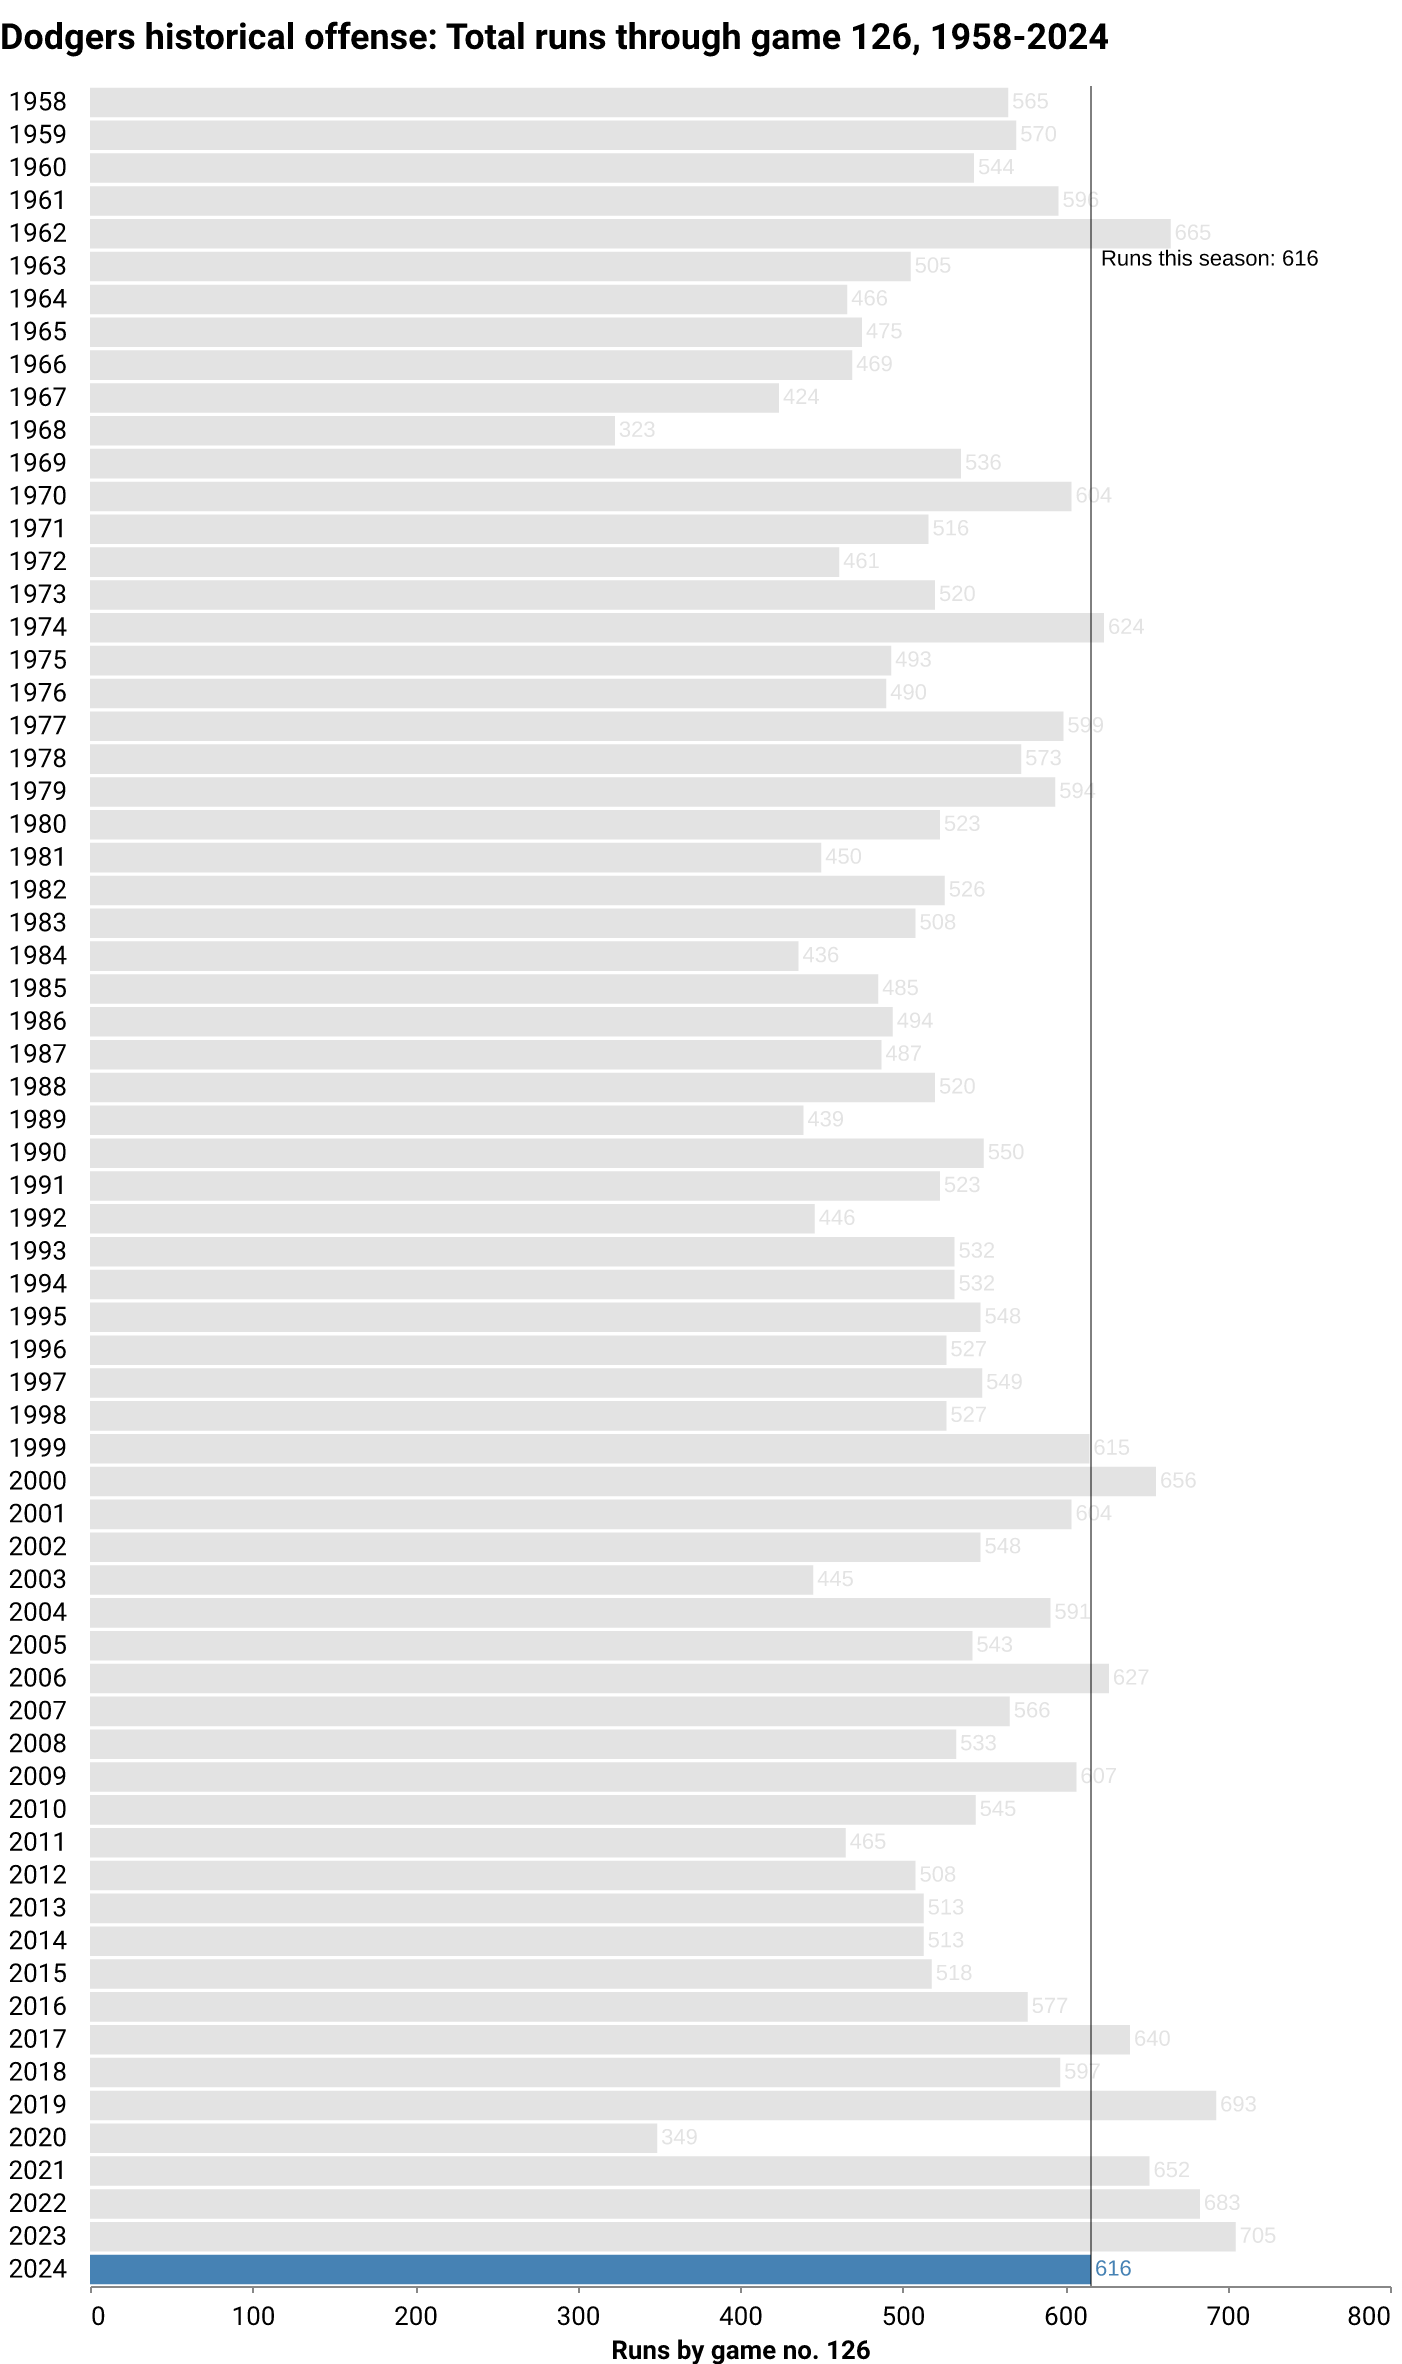
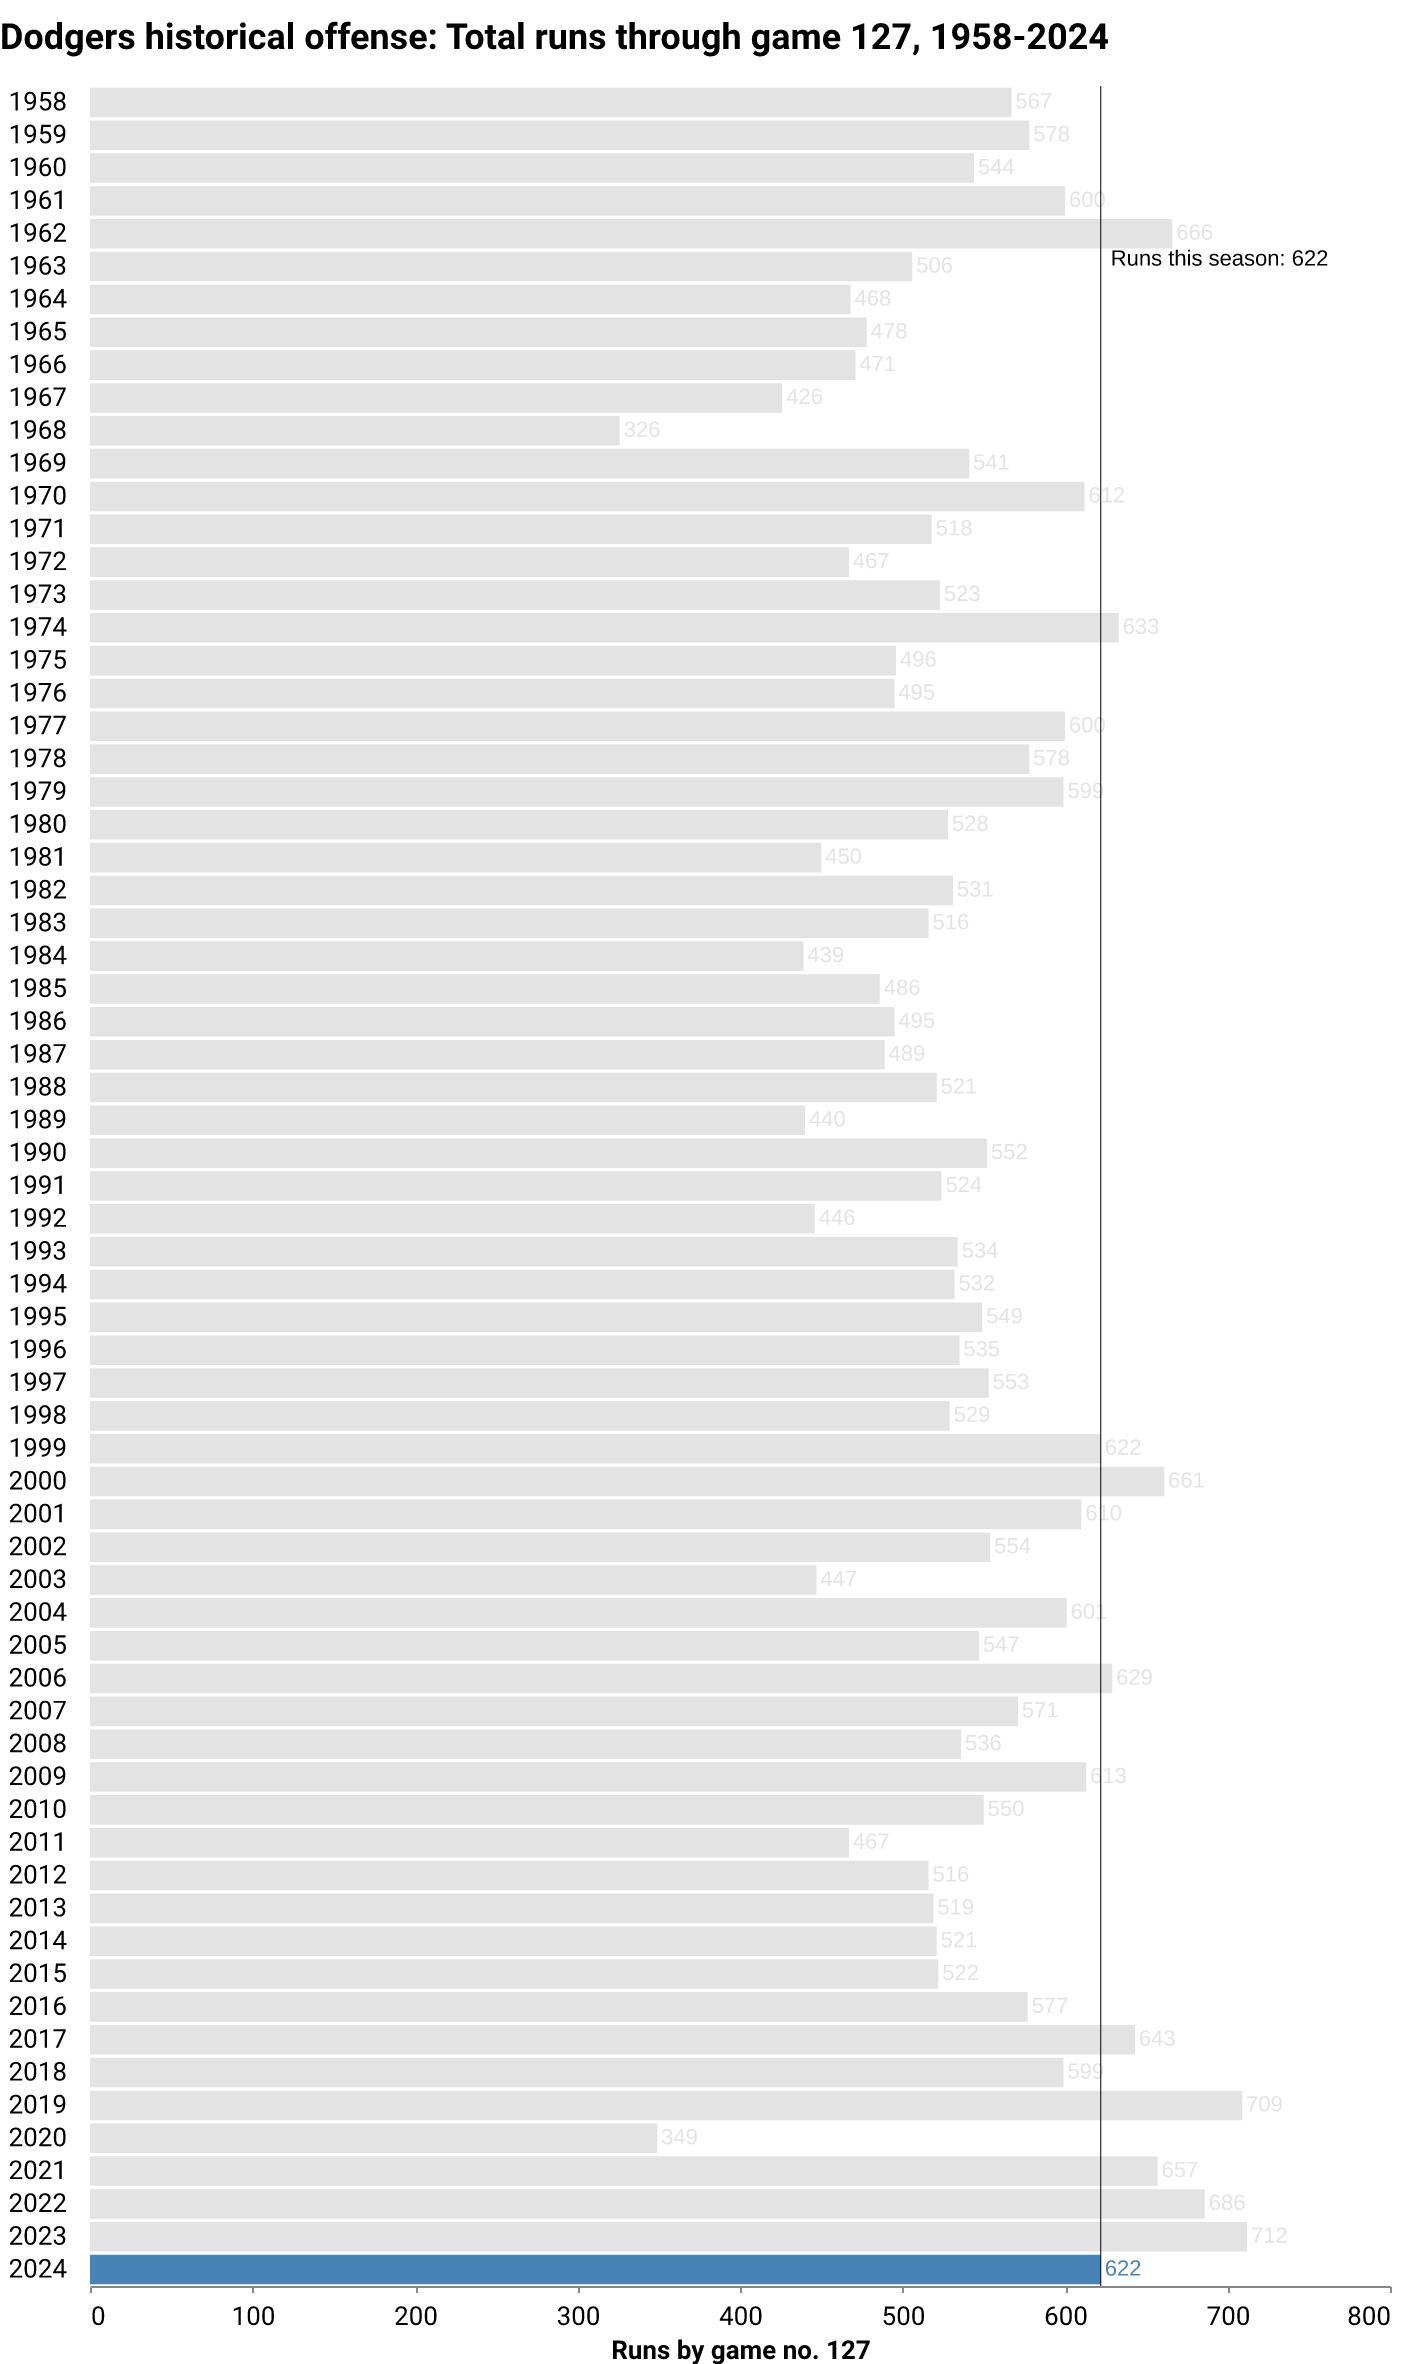
deploy: b6ef3c366af609b19c38bac9369912ef0b6fee00

diff --git a/index.html b/index.html
@@ -184,7 +184,7 @@
 <p class="subhead">
     
     
-    <span class="highlight">LOS ANGELES</span> <span class="updated">(August 21)</span> — After <span class="highlight">126</span> games this season, the Dodgers are in <span class="highlight">1st</span> place in the National League West division. The team has compiled a <span class="highlight">74-52</span> record, winning <span class="highlight">59%</span> of its games so far. The last game was a <span class="highlight">3-0</span> home <span class="highlight">win</span> against the Seattle Mariners in front of <span class="highlight">51,348</span> fans. They've won <span class="highlight">7 of the last 10</span>.
+    <span class="highlight">LOS ANGELES</span> <span class="updated">(August 21)</span> — After <span class="highlight">127</span> games this season, the Dodgers are in <span class="highlight">1st</span> place in the National League West division. The team has compiled a <span class="highlight">75-52</span> record, winning <span class="highlight">59%</span> of its games so far. The last game was a <span class="highlight">6-3</span> home <span class="highlight">win</span> against the Seattle Mariners in front of <span class="highlight">48,395</span> fans. They've won <span class="highlight">7 of the last 10</span>.
 </p>
 </div>
 
@@ -206,10 +206,10 @@
             Wins
           </div>
           <div class="card-body">
-            <p class="card-text">74</p>
+            <p class="card-text">75</p>
           </div>
           <div class="card-footer text-muted">
-        This point last season: 78
+        This point last season: 79
           </div>
         </div>
       </div>
@@ -238,10 +238,10 @@
             Record
           </div>
           <div class="card-body">
-            <p class="card-text">74-52</p>
+            <p class="card-text">75-52</p>
           </div>
           <div class="card-footer text-muted">
-        This point last season: 78-48
+        This point last season: 79-48
           </div>
         </div>
       </div>
@@ -286,10 +286,10 @@
             Avg. home attendance
           </div>
           <div class="card-body">
-            <p class="card-text">48,290</p>
+            <p class="card-text">48,291</p>
           </div>
           <div class="card-footer text-muted">
-        Home games this season: 61
+        Home games this season: 62
           </div>
         </div>
       </div>
@@ -302,7 +302,7 @@
             Runs
           </div>
           <div class="card-body">
-            <p class="card-text">616</p>
+            <p class="card-text">622</p>
           </div>
           <div class="card-footer text-muted">
         League rank: 2
@@ -318,10 +318,10 @@
             Runs against
           </div>
           <div class="card-body">
-            <p class="card-text">512</p>
+            <p class="card-text">515</p>
           </div>
           <div class="card-footer text-muted">
-        This point last season: 556
+        This point last season: 560
           </div>
         </div>
       </div>
@@ -334,10 +334,10 @@
             Run differential
           </div>
           <div class="card-body">
-            <p class="card-text">104</p>
+            <p class="card-text">107</p>
           </div>
           <div class="card-footer text-muted">
-        This point last season: 149
+        This point last season: 152
           </div>
         </div>
       </div>
@@ -424,7 +424,7 @@
             Home runs
           </div>
           <div class="card-body">
-            <p class="card-text">169</p>
+            <p class="card-text">172</p>
           </div>
           <div class="card-footer text-muted">
         League rank: 1
@@ -440,7 +440,7 @@
             Home runs/game
           </div>
           <div class="card-body">
-            <p class="card-text">1.34</p>
+            <p class="card-text">1.35</p>
           </div>
           <div class="card-footer text-muted">
         Last decade average: 1.36
@@ -456,7 +456,7 @@
             On-base percentage
           </div>
           <div class="card-body">
-            <p class="card-text">.330</p>
+            <p class="card-text">.331</p>
           </div>
           <div class="card-footer text-muted">
         Last decade average: .332
@@ -472,7 +472,7 @@
             Stolen bases
           </div>
           <div class="card-body">
-            <p class="card-text">86</p>
+            <p class="card-text">87</p>
           </div>
           <div class="card-footer text-muted">
         League rank: 8
@@ -488,7 +488,7 @@
             Stolen bases/game
           </div>
           <div class="card-body">
-            <p class="card-text">0.68</p>
+            <p class="card-text">0.69</p>
           </div>
           <div class="card-footer text-muted">
         Rate all last season: 0.65
@@ -598,7 +598,7 @@
             Strikeouts
           </div>
           <div class="card-body">
-            <p class="card-text">1077</p>
+            <p class="card-text">1082</p>
           </div>
           <div class="card-footer text-muted">
         League rank: 6
@@ -614,7 +614,7 @@
             Walks
           </div>
           <div class="card-body">
-            <p class="card-text">382</p>
+            <p class="card-text">386</p>
           </div>
           <div class="card-footer text-muted">
         League rank: 11
@@ -630,7 +630,7 @@
             ERA
           </div>
           <div class="card-body">
-            <p class="card-text">3.75</p>
+            <p class="card-text">3.74</p>
           </div>
           <div class="card-footer text-muted">
         League rank: 5
@@ -708,7 +708,7 @@
     </div>
 </div>
 
-  <p class="dated">Notes: Last updated August 21, 2024, 4:03 AM PT. More <a href="https://github.com/stiles/dodgers/blob/main/README.md">about the data</a>.</p>
+  <p class="dated">Notes: Last updated August 21, 2024, 9:03 AM PT. More <a href="https://github.com/stiles/dodgers/blob/main/README.md">about the data</a>.</p>
   
 </div>
 
